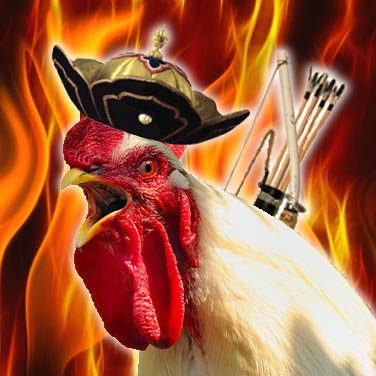
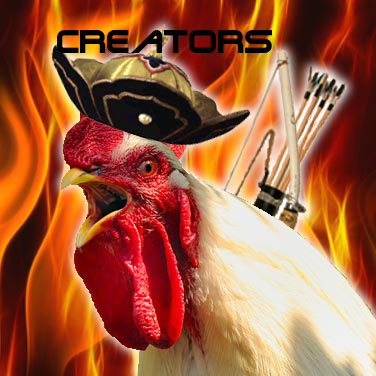
Fix and test

Changed region(s): [[0.1463, 0.0585, 0.7314, 0.1463]]

diff --git a/src/main/kotlin/gui/ButtonHBox.kt b/src/main/kotlin/gui/ButtonHBox.kt
@@ -10,6 +10,7 @@ import java.io.FileNotFoundException
 import Interpreter
 import javafx.scene.image.ImageView
 import javafx.scene.layout.VBox
+import javafx.scene.text.Font
 import netscape.security.UserDialogHelper
 import java.io.InputStream
 import java.io.PrintStream
@@ -238,13 +239,15 @@ class ButtonHBox(
 
 class Creators():Fragment(){
     override val root = VBox()
-
     init{
-
         with(root){
             setMinSize(380.00,380.00)
             setMaxSize(380.00,380.00)
             imageview("file:\\\\\\C:\\Users\\Vedrovski\\IdeaProjects\\ws02\\PetooKhan(square).jpg")
+            label("Creators"){
+                font = Font.font("Coral")
+                font = Font(20.0)
+            }
 
         }
 

diff --git a/src/main/kotlin/gui/MainView.kt b/src/main/kotlin/gui/MainView.kt
@@ -26,12 +26,16 @@ class MainView : View() {
     val inputStream = GuiIOStream.MyInputStream(inputTextField)
     val printStream = GuiIOStream.GuiConsoleStream(consoleTextArea)
     val buttonHBox = ButtonHBox(workTextArea, consoleTextArea,inputStream,printStream)
+    val codeStr = StringBuilder()
     init {
 
         // init UI elements
         with(workTextArea) {
             setPrefSize(400.0, 400.0)
             font = Font.font("Verdana")
+            setOnKeyPressed {
+                
+            }
         }
         with(consoleTextArea) {
             setPrefSize(100.0, 100.0)
